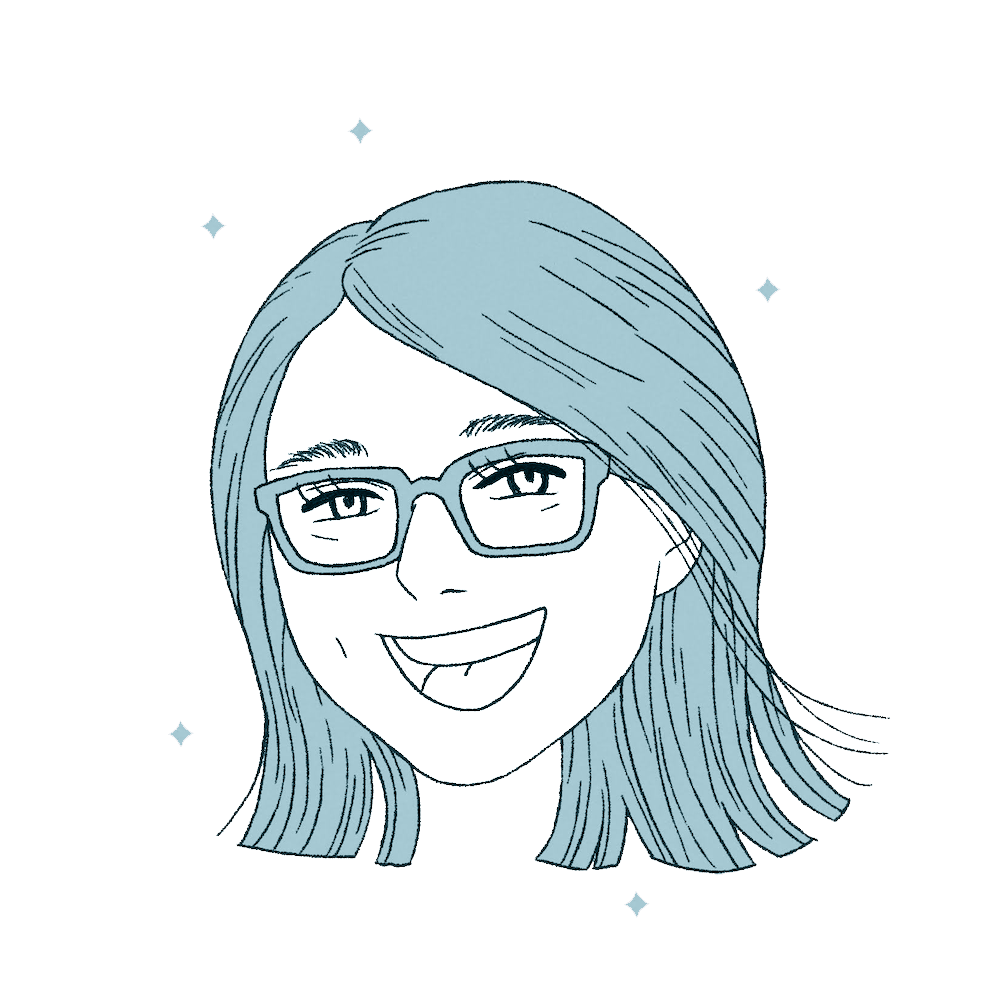
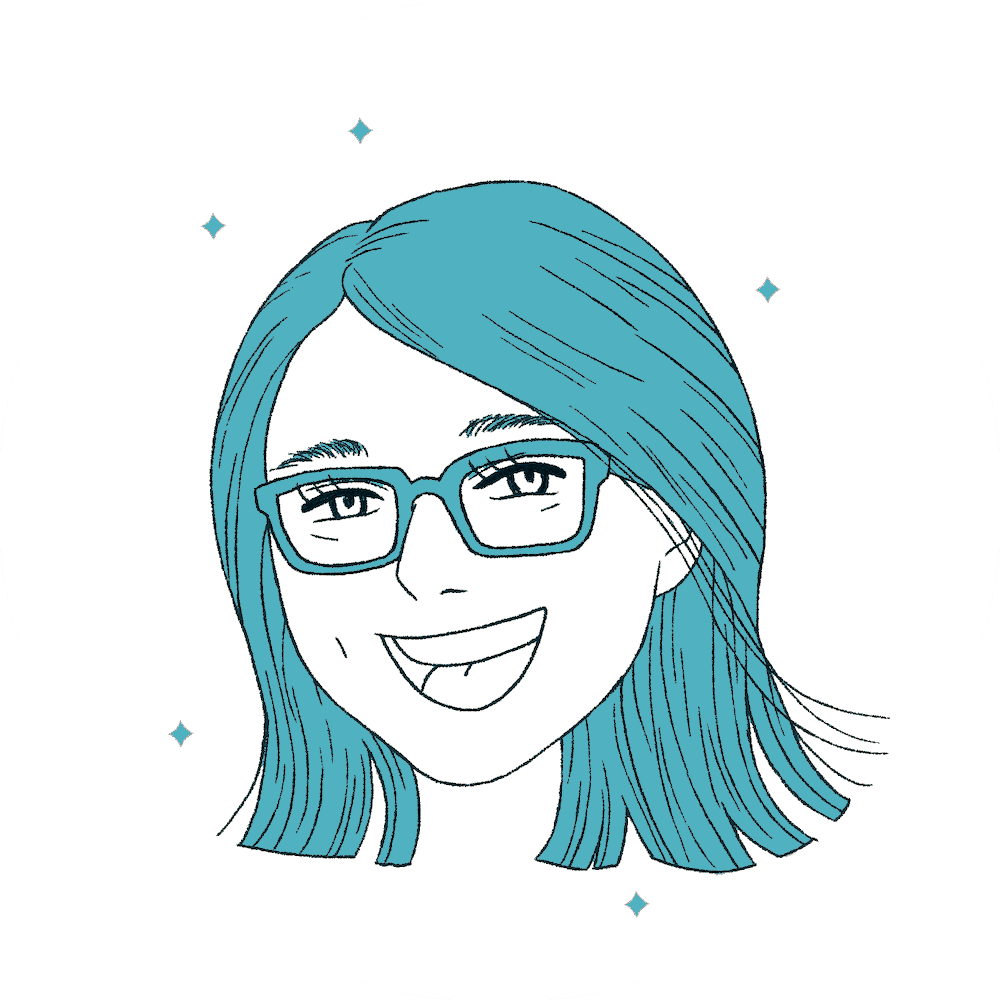
Update color scheme

diff --git a/assets/hex-colors.scss b/assets/hex-colors.scss
@@ -1,13 +1,13 @@
 // set custom hex colors 
-$siteBgColorCustom: #F3E6CD;
-$sidebarBgColorCustom: #9FC2CC;
-$textColorCustom: #050505;
-$sidebarTextColorCustom: #4A051C;
-$headlineColorCustom: #4A051C;
-$headingColorCustom: #057840;
-$bodyLinkColorCustom: #057840;
-$navLinkColorCustom: #057840;
-$sidebarLinkColorCustom: #057840;
+$siteBgColorCustom: #FEEFDD;
+$sidebarBgColorCustom: #FEEFDD;
+$textColorCustom: #201E1F;
+$sidebarTextColorCustom: #50B2C0;
+$headlineColorCustom: #50B2C0;
+$headingColorCustom: #FAAA8D;
+$bodyLinkColorCustom: #FF4000;
+$navLinkColorCustom: #FAAA8D;
+$sidebarLinkColorCustom: #FAAA8D;
 $footerTextColorCustom: #4A051C;
 $buttonTextColorCustom: #4A051C;
 $buttonHoverTextColorCustom: #4A051C;
